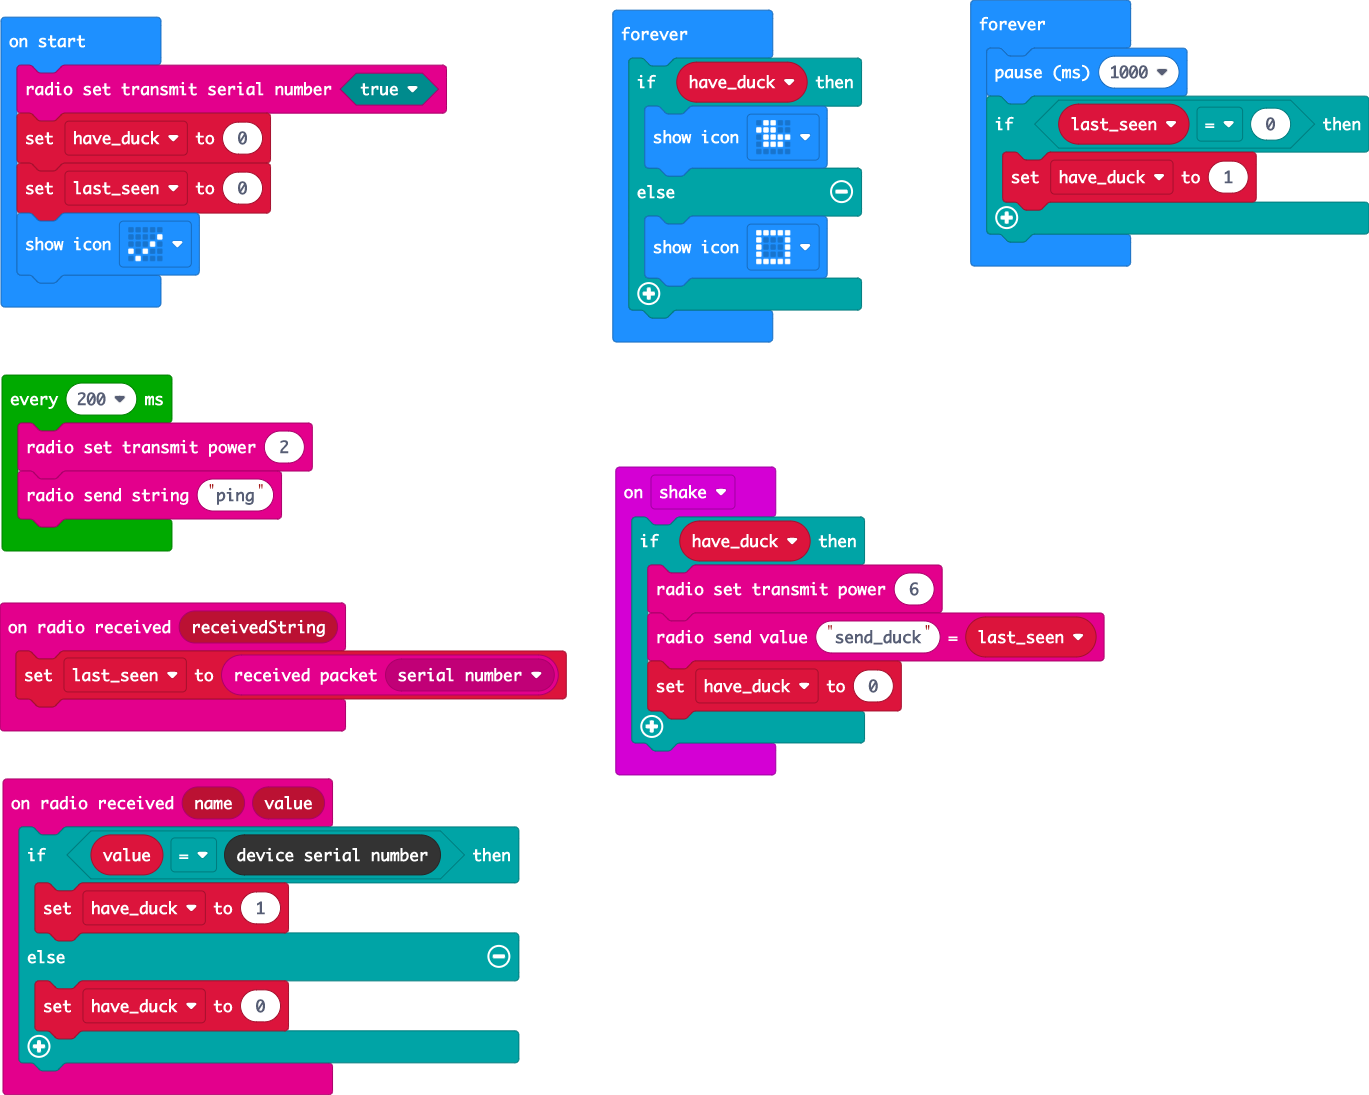
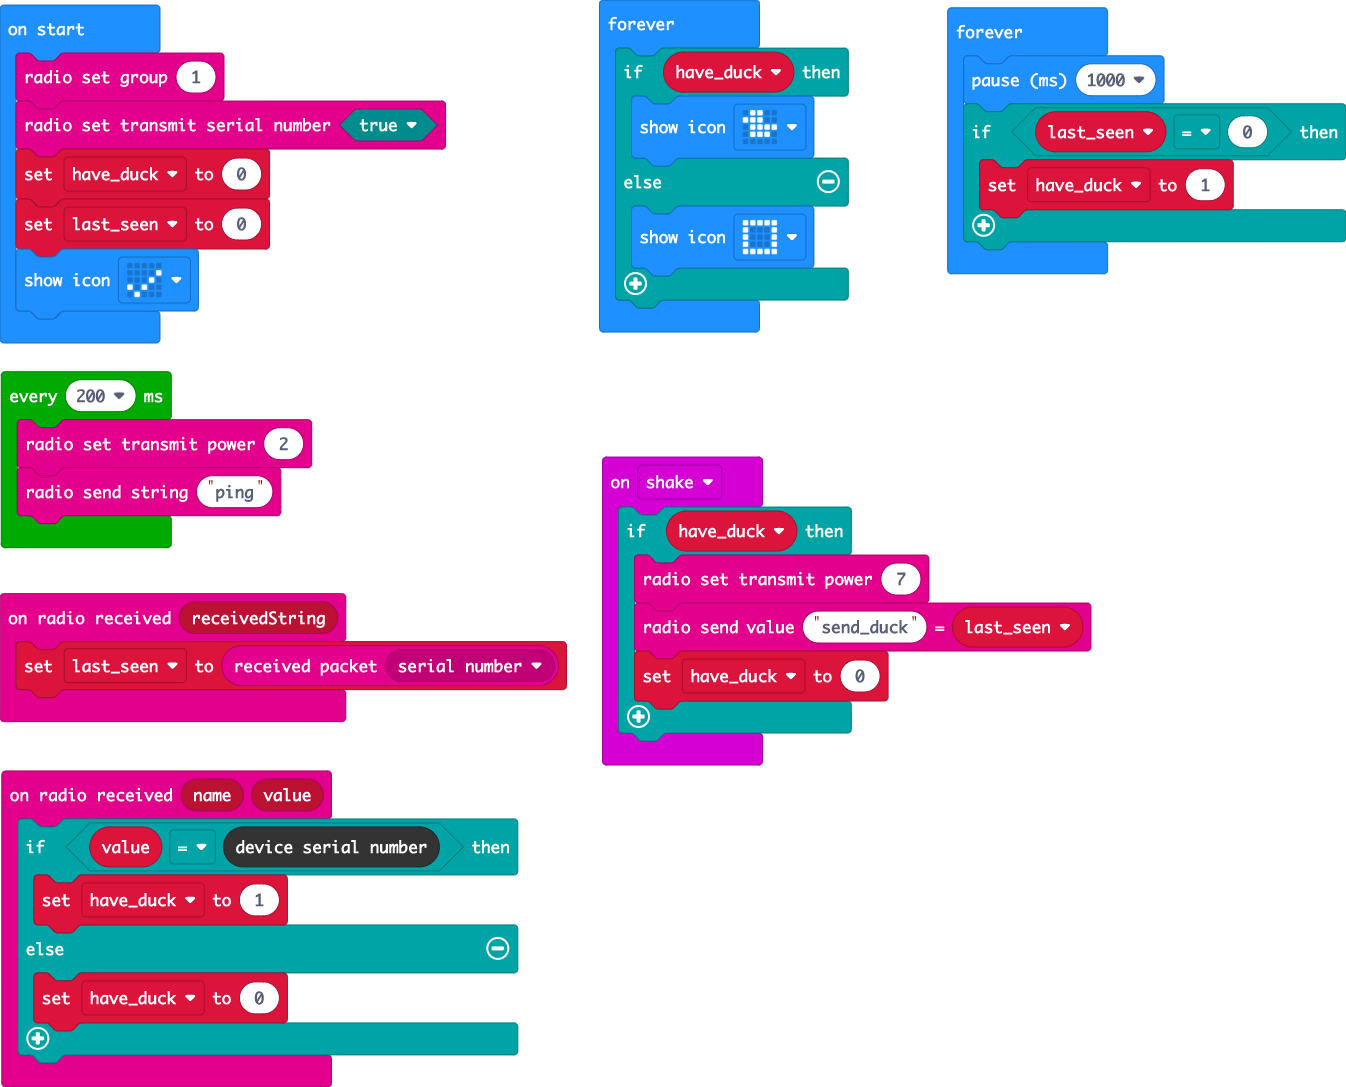
Set radio group, use maximum transmit power when sending duck.

diff --git a/main.ts b/main.ts
@@ -3,7 +3,7 @@ radio.onReceivedString(function (receivedString) {
 })
 input.onGesture(Gesture.Shake, function () {
     if (have_duck) {
-        radio.setTransmitPower(6)
+        radio.setTransmitPower(7)
         radio.sendValue("send_duck", last_seen)
         have_duck = 0
     }
@@ -17,6 +17,7 @@ radio.onReceivedValue(function (name, value) {
 })
 let last_seen = 0
 let have_duck = 0
+radio.setGroup(1)
 radio.setTransmitSerialNumber(true)
 have_duck = 0
 last_seen = 0
